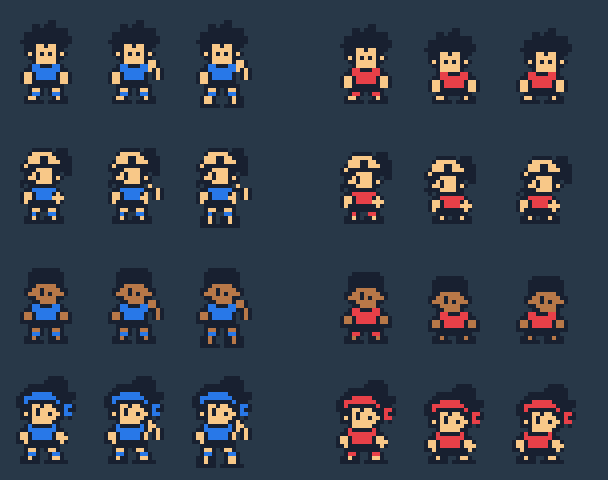
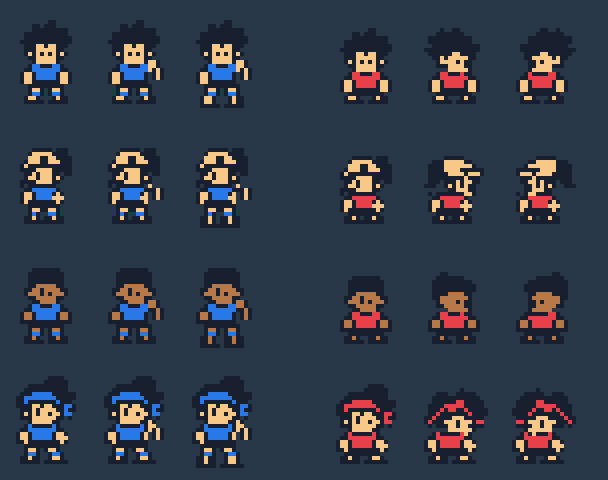
Turn and tilt losing heads around a steady crouch

diff --git a/src/futsal_results.c b/src/futsal_results.c
@@ -12,7 +12,7 @@ uint8_t fs_result_tick,fs_result_frame[4],fs_result_outcome[4];
 void futsal_results_update(void) BANKED {
     static const uint8_t win_cycle[8]={0,1,2,2,1,0,0,0};
     static const uint8_t win_lift[8]={0,2,5,6,3,0,0,0};
-    static const uint8_t lose_cycle[8]={0,0,1,1,2,2,1,2};
+    static const uint8_t lose_cycle[8]={0,1,1,0,2,2,0,0};
     for(uint8_t i=0;i<4;i++){
         uint8_t phase=((fs_result_tick+i*5)>>3)&7;
         uint8_t won=fs_result_outcome[i]==0;

diff --git a/artwork/players/roster/reactions/README.md b/artwork/players/roster/reactions/README.md
@@ -3,9 +3,10 @@
 Each of the four original characters has three native 16×24 frames per outcome.
 Win frames raise one original hand to shoulder height, then point the existing
 feet for a short jump. The original face is restored above the arm so it stays
-readable. Loss frames duck down one to two pixels and shake the original head
-left/right by one pixel. The bandana's wide silhouette uses center/right poses
-to retain every head pixel. Hair, hats, faces and bandanas move intact.
+readable. Loss frames hold a two-pixel crouch and turn through the approved
+three-quarter head profile and its opposite view. A one-pixel roll at either
+side tilts the head around the middle neck columns; the head never slides
+sideways. Every pixel of the original profile, hair, hat and bandana is retained.
 
 `tools/reaction-art.mjs` is the editable source. `tools/reaction-study.mjs` writes
 `reactions.json`, the contact sheet (four character rows, win left and lose right),
@@ -14,7 +15,7 @@ and a lossless animated GIF (win left, lose right). Regenerate the studies with
 
 The 2v2 results screen assigns the correct outcome to both teammates. Eight
 eight-frame steps create a six-pixel up/down jump with a landing pause, or a
-grounded crouch and head shake, with a small phase offset per character. Team
+grounded crouch and tilted head turn through center, with a small phase offset per character. Team
 rows are staggered vertically to stay below the hardware sprite scanline cap.
 All three relevant frames are loaded once for each character into sprite bank
 one; animation changes tile references only. The compact shadows remain fixed.
